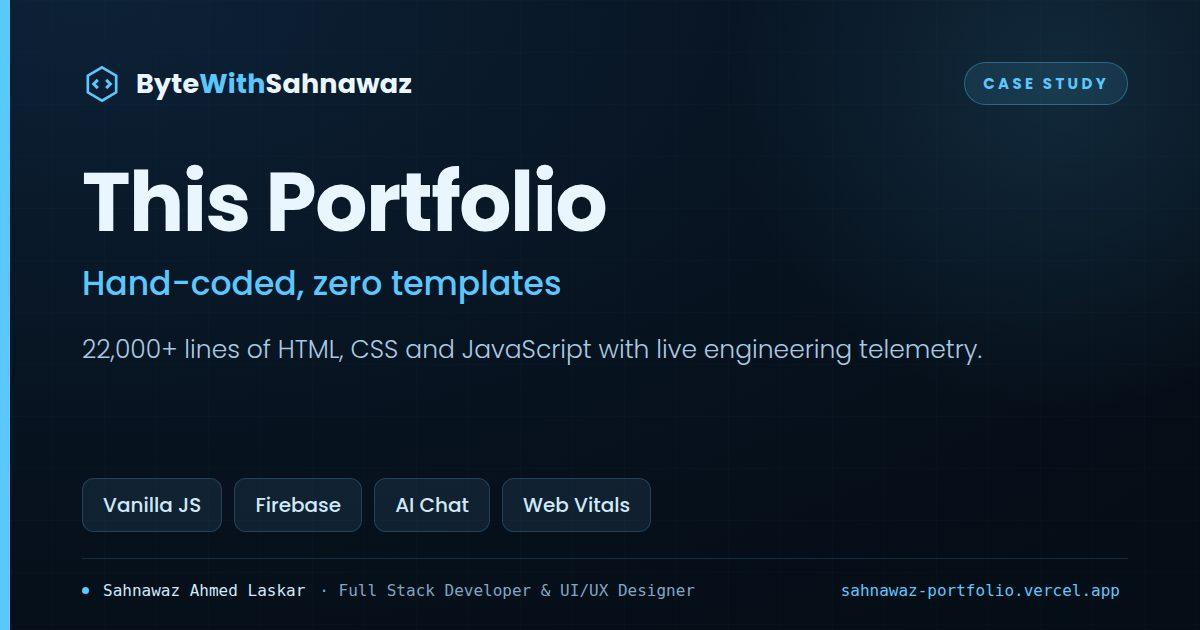
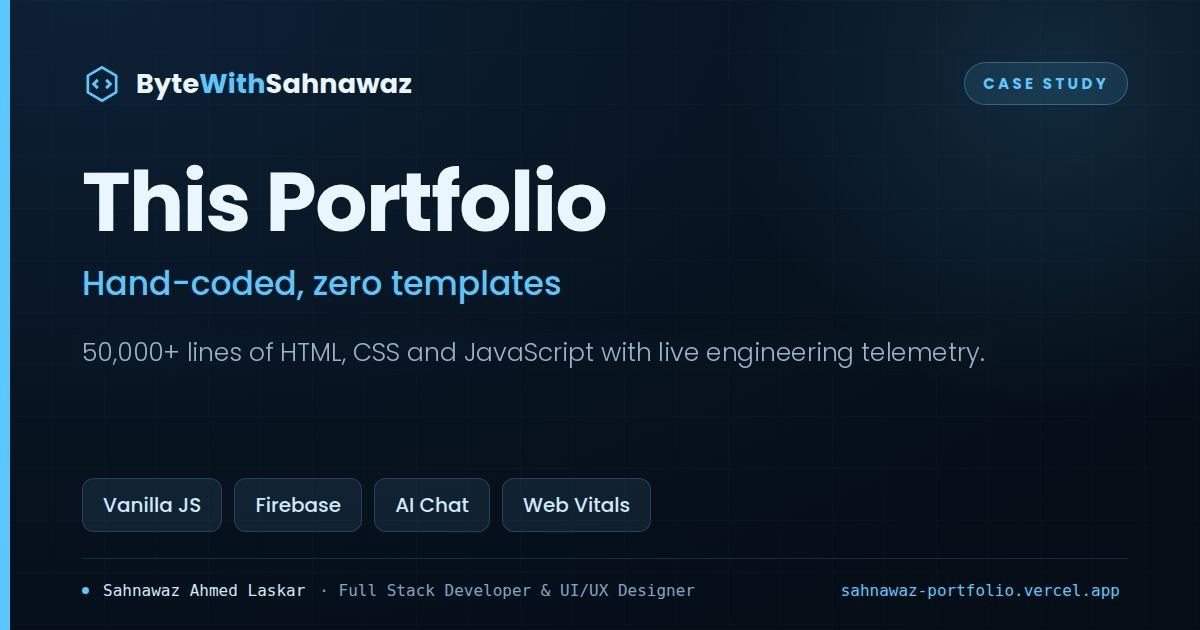
Accurate line counts and a live GitHub streak card
- "22,000+ / 16,000+ lines" → 50,000+ (counted across the site, admin, API and scripts),
  including the portfolio share card and résumé
- Consistency achievement reads total contributions, current and longest streak from
  profile/streak.svg (refreshed daily by the streak workflow); fallback text updated

Claude-Session: https://claude.ai/code/session_01NHvyMtY8vmPVP3jSpp9hGU

Changed region(s): [[0.0617, 0.5429, 0.8325, 0.573]]

diff --git a/js/portfolio-01.js b/js/portfolio-01.js
@@ -3,7 +3,7 @@
 (function() {
   var kta3DB = {
     kt1: { icon:'<svg viewBox="0 0 24 24" fill="none" stroke="currentColor" stroke-width="1.8" stroke-linecap="round" stroke-linejoin="round"><path d="M8 4h8v4a4 4 0 0 1-8 0V4z"/><path d="M8 5H5a3 3 0 0 0 3 3"/><path d="M16 5h3a3 3 0 0 1-3 3"/><path d="M12 12v3"/><path d="M9 19h6"/><path d="M10 19v-2a2 2 0 0 1 4 0v2"/></svg>', title:'GitHub — 2,600+ Contributions (4 Repos)', group:'tech', accent:'#60a5fa',
-      desc:'Consistency is the rarest skill in development. Across all 4 of my repositories, I\'ve logged 2,600+ contributions over the past year — with a 44-day active streak and a 63-day longest streak on record (last updated 14 Sep 2026). Every push represents a deliberate, version-controlled improvement. This discipline shaped how I think: in iterations, not leaps.',
+      desc:'Consistency is the rarest skill in development. Across all 4 of my repositories, I\'ve logged 3,100+ contributions on GitHub — with an 87-day active streak, which is also my longest so far (as of 26 Oct 2026). Every push represents a deliberate, version-controlled improvement. This discipline shaped how I think: in iterations, not leaps.',
       tags:['Git','Version Control','Commit Streak','4 Repos','Consistency'] },
     kt2: { icon:'<svg viewBox="0 0 24 24" fill="none" stroke="currentColor" stroke-width="1.8" stroke-linecap="round" stroke-linejoin="round"><path d="M12 2.5c2.5 1.5 4 4.5 4 8 0 2-.5 3.8-1.3 5.2l-2.7 3-2.7-3C8.5 14.3 8 12.5 8 10.5c0-3.5 1.5-6.5 4-8z"/><circle cx="12" cy="9" r="1.6"/><path d="M8.3 13.5c-1.8.4-3 1.6-3.3 4.3 1.8-.6 3.1-1.4 3.9-2.4"/><path d="M15.7 13.5c1.8.4 3 1.6 3.3 4.3-1.8-.6-3.1-1.4-3.9-2.4"/><path d="M10.2 18.7c.5 1 1 1.8 1.8 2.3.8-.5 1.3-1.3 1.8-2.3"/></svg>', title:'Deployed 50+ Web Projects', group:'tech', accent:'#34d399',
       desc:'Building locally is one thing. Shipping to the real world — with real users, real traffic, and real consequences — is another. Beyond my 4 flagship products (this portfolio, StudyLens AI, YojanaSahay, and the SHG Directory), I\'ve deployed 50+ web projects overall — store management systems, e-commerce setups, personal portfolios, school websites, restaurant websites, and more — managing deployment pipelines, domain config, and post-launch iteration for each.',
@@ -36,8 +36,8 @@
       desc:'Numbers matter less than who\'s behind them. YojanaSahay helps everyday citizens discover and check eligibility for government welfare schemes. StudyLens AI answers real academic questions for Assam students. The SHG Directory turns Self Help Group data from Cachar district into something people can actually use. Three public, solo-built projects doing real work — not internal demos.',
       tags:['Civic Tech','Public Access','YojanaSahay','StudyLens AI','SHG Directory'] },
     ki4: { icon:'<svg viewBox="0 0 24 24" fill="none" stroke="currentColor" stroke-width="1.8" stroke-linecap="round" stroke-linejoin="round"><rect x="2.5" y="4" width="19" height="13" rx="2"/><path d="M8 21h8"/><path d="M12 17v4"/></svg>', title:'Portfolio — Engineered from Scratch', group:'impact', accent:'#00d4ff',
-      desc:'This portfolio is not a template. Every line — from the particle canvas and matrix rain footer, to the AI-powered live chat, skill bars, hacker mode, animated profile ring, and this very achievement system — is hand-coded in pure HTML, CSS, and vanilla JavaScript. No frameworks, no page builders. 16,000+ lines of deliberate, performance-optimised code, built to showcase what a developer who truly understands the web can create solo.',
-      tags:['Vanilla JS','CSS Animations','AI Chatbot','Performance','16k+ Lines','Zero Templates'] },
+      desc:'This portfolio is not a template. Every line — from the particle canvas and matrix rain footer, to the AI-powered live chat, skill bars, hacker mode, animated profile ring, and this very achievement system — is hand-coded in pure HTML, CSS, and vanilla JavaScript. No frameworks, no page builders. 50,000+ lines of deliberate, performance-optimised code, built to showcase what a developer who truly understands the web can create solo.',
+      tags:['Vanilla JS','CSS Animations','AI Chatbot','Performance','50k+ Lines','Zero Templates'] },
     ki5: { icon:'<svg viewBox="0 0 24 24" fill="none" stroke="currentColor" stroke-width="1.8" stroke-linecap="round" stroke-linejoin="round"><path d="M3 12h4l2-7 4 14 2-7h6"/></svg>', title:'Live System Health Dashboard', group:'impact', accent:'#2dd4bf',
       desc:'The "Recently Shipped" panel on this page runs its own independent health check — GitHub API, Firestore, and the push webhook — each shown with a live status dot and real latency in milliseconds, not a static "all systems operational" badge. It auto-rechecks every 30 seconds to match the endpoint\'s own cache window, and uses the Page Visibility API to pause polling the moment the tab goes hidden — so it never silently burns GitHub or Firestore quota in a forgotten background tab — then immediately re-checks the instant the tab comes back if enough time has passed. The same pattern real status dashboards use, built solo and self-contained.',
       tags:['System Status API','Firestore','Page Visibility API','Self-Healing Polling','Live Monitoring'] },
@@ -59,6 +59,38 @@
   };
 
   var activeCard = { tech: null, impact: null };
+  /* Live streak: the GitHub Action refreshes profile/streak.svg every day, so the
+     "Consistency" card reads its numbers from that file instead of going stale.
+     The three big (28px) values are, in order: total contributions, current
+     streak, longest streak. Any parse problem keeps the written fallback. */
+  (function () {
+    function run() {
+      if (!window.fetch) return;
+      fetch('profile/streak.svg', { cache: 'no-cache' })
+        .then(function (r) { return r.ok ? r.text() : Promise.reject(); })
+        .then(function (svg) {
+          var v = [];
+          svg.replace(/<text[^>]*font-size=["']28px["'][^>]*>([^<]+)<\/text>/g, function (_, x) { v.push(x.trim()); return _; });
+          if (v.length < 3) return;
+          var total = v[0], cur = parseInt(v[1].replace(/\D/g, ''), 10), best = parseInt(v[2].replace(/\D/g, ''), 10);
+          if (!/\d/.test(total) || isNaN(cur) || isNaN(best)) return;
+          var art = function (n) { var t = String(n); return /^8/.test(t) || /^1[18](\d{3})?$/.test(t) ? 'an' : 'a'; };
+          var streak = cur > 0
+            ? (cur >= best ? 'with ' + art(cur) + ' ' + cur + '-day active streak running right now — my longest yet'
+                           : 'with ' + art(cur) + ' ' + cur + '-day active streak right now and ' + art(best) + ' ' + best + '-day longest streak on record')
+            : 'with ' + art(best) + ' ' + best + '-day longest streak on record';
+          kta3DB.kt1.desc = 'Consistency is the rarest skill in development. Across my repositories, I\'ve logged ' + total
+            + ' contributions on GitHub — ' + streak + ' (live from my GitHub stats, refreshed daily). Every push represents a deliberate, version-controlled improvement. This discipline shaped how I think: in iterations, not leaps.';
+          if (activeCard.tech && activeCard.tech.getAttribute('data-id') === 'kt1') {
+            var el = document.getElementById('kta3-desc-tech'); if (el) el.textContent = kta3DB.kt1.desc;
+          }
+        })
+        .catch(function () {});
+    }
+    var go = function () { ('requestIdleCallback' in window) ? requestIdleCallback(run, { timeout: 4000 }) : setTimeout(run, 2000); };
+    if (document.readyState === 'complete') go(); else window.addEventListener('load', go, { once: true });
+  })();
+
 
   // Moves the shared drawer to sit directly after the LAST card in the
   // same visual row as the clicked card, instead of always trailing at

diff --git a/index.html b/index.html
@@ -3439,9 +3439,9 @@ window.addEventListener('resize', () => {
         <span class="mpj-card-status mpj-status-live">● LIVE</span>
       </div>
       <div class="mpj-card-name">This Portfolio — sahnawaz.dev</div>
-      <div class="mpj-card-tagline">22,000+ lines of hand-coded HTML/CSS/JS. Firebase auth, AI chat, blog, particles, full dark UI — zero templates, zero shortcuts.</div>
+      <div class="mpj-card-tagline">50,000+ lines of hand-coded HTML/CSS/JS. Firebase auth, AI chat, blog, particles, full dark UI — zero templates, zero shortcuts.</div>
       <div class="mpj-problem">Problem → Recruiters couldn't find my work in one place. Built a full personal brand hub instead.</div>
-      <div class="mpj-metric"><svg viewBox="0 0 24 24" fill="currentColor"><path d="M13 2 4 14h6l-1 8 9-12h-6z"/></svg> 22,000+ lines · Firebase · AI Chat · Auth</div>
+      <div class="mpj-metric"><svg viewBox="0 0 24 24" fill="currentColor"><path d="M13 2 4 14h6l-1 8 9-12h-6z"/></svg> 50,000+ lines · Firebase · AI Chat · Auth</div>
       <div class="mpj-stack">
         <span class="mpj-pill">HTML/CSS/JS</span>
         <span class="mpj-pill">Firebase</span>
@@ -5441,7 +5441,7 @@ document.addEventListener('DOMContentLoaded', function(){
 
         <article class="cv-proj">
           <h3>Personal Portfolio &amp; Engineering Platform <span class="cv-link">sahnawaz-portfolio.vercel.app</span></h3>
-          <p><b>22,000+ lines</b> of hand-written HTML, CSS and JavaScript across <b>1,000+ commits</b> &mdash; zero frameworks, zero templates, zero UI libraries. Built as a working engineering platform rather
+          <p><b>50,000+ lines</b> of hand-written HTML, CSS and JavaScript across <b>1,000+ commits</b> &mdash; zero frameworks, zero templates, zero UI libraries. Built as a working engineering platform rather
              than a brochure: it measures itself, adapts to the visitor&rsquo;s device and exposes its own
              infrastructure in public &mdash; detailed below.</p>
           <p class="cv-stack"><b>Stack</b> Vanilla JS modules &middot; CSS custom properties &middot; Firebase Auth &amp; Firestore &middot;

diff --git a/api/resume.js b/api/resume.js
@@ -320,7 +320,7 @@ function visitorResumeEmail({ name, refId, now, requestSource }) {
                 <td style="padding:14px 18px;border-bottom:1px solid rgba(255,255,255,0.04);">
                   <div style="font-size:0.85rem;color:#c8e8ff;font-weight:700;margin-bottom:4px;">Portfolio &amp; AI Assistant</div>
                   <div style="font-size:0.78rem;color:#7ea5b8;line-height:1.6;">
-                    This site itself &mdash; 22,000+ lines of hand-coded HTML/CSS/JS with an
+                    This site itself &mdash; 50,000+ lines of hand-coded HTML/CSS/JS with an
                     embedded, context-aware AI chat assistant.
                   </div>
                 </td>

diff --git a/api/share.js b/api/share.js
@@ -24,7 +24,7 @@ const LINKS = {
   portfolio: {
     to: '/?case=portfolio',
     title: 'This Portfolio — hand-coded, zero templates',
-    desc: '22,000+ lines of HTML, CSS and JavaScript with live engineering telemetry, an AI assistant and a hidden terminal. A case study of the site itself.',
+    desc: '50,000+ lines of HTML, CSS and JavaScript with live engineering telemetry, an AI assistant and a hidden terminal. A case study of the site itself.',
   },
   ui: {
     to: '/?projects=ui',
